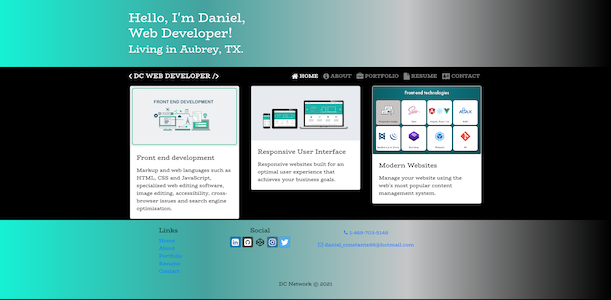
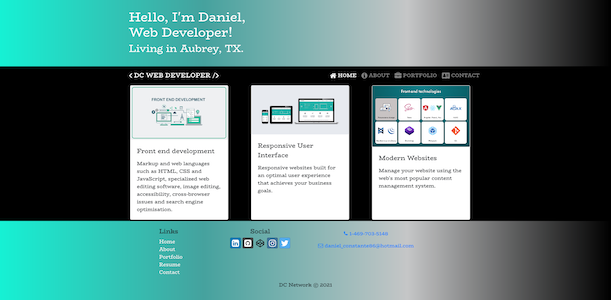
css details

diff --git a/src/components/FooterComponent.js b/src/components/FooterComponent.js
@@ -25,13 +25,13 @@ function Footer(props) {
                         <a className="btn btn-social-icon btn-twitter" href="http://twitter.com/"><i className="fa fa-twitter" /></a>{' '}
                         
                     </div>
-                    <div className="col-sm-4 text-center">
-                        <a role="button" className="btn btn-link" href="tel:+14697035148"><i className="fa fa-phone" /> 1-469-703-5148</a><br />
-                        <a role="button" className="btn btn-link" href="mailto:daniel_constante86@hotmail.com"><i className="fa fa-envelope-o" /> daniel_constante86@hotmail.com </a>
+                    <div  className="col-sm-4 text-center">
+                        <a id="footer" role="button" className="btn btn-link" href="tel:+14697035148"><i className="fa fa-phone" /> 1-469-703-5148</a><br />
+                        <a id="footer" role="button" className="btn btn-link" href="mailto:daniel_constante86@hotmail.com"><i className="fa fa-envelope-o" /> daniel_constante86@hotmail.com </a>
                     </div>
                 </div>
             </div>
-            <div  className="text-center">
+            <div id="footer" className="text-center">
             <p>DC Network © 2021</p>
             </div>
         </footer>

diff --git a/public/index.html b/public/index.html
@@ -2,7 +2,7 @@
 <html lang="en">
   <head>
     <meta charset="utf-8" />
-    <link rel="icon" href="%PUBLIC_URL%/favicon.ico" />
+    <link rel="icon" href="%PUBLIC_URL%/logo.jpg" />
     <meta name="viewport" content="width=device-width, initial-scale=1" />
     <meta name="theme-color" content="#000000" />
     <meta
@@ -24,7 +24,7 @@
       work correctly both with client-side routing and a non-root public URL.
       Learn how to configure a non-root public URL by running `npm run build`.
     -->
-    <title>React App</title>
+    <title>Daniel Constante Portfolio</title>
   </head>
   <body>
     <noscript>You need to enable JavaScript to run this app.</noscript>

diff --git a/src/components/HomeComponent.js b/src/components/HomeComponent.js
@@ -8,8 +8,8 @@ import { Card, CardImg, CardText, CardBody, CardTitle } from 'reactstrap';
 
 function RenderCard({ item }) {
     return (
-        <Card>
-            <CardImg src={item.image} alt={item.name} />
+        <Card style={{width:"90%", height:"100%"}}>
+            <CardImg style={{width:"100%", height:"40%"}} src={item.image} alt={item.name} />
             <CardBody>
                 <CardTitle>{item.name}</CardTitle>
                 <CardText>{item.description}</CardText>

diff --git a/src/components/ContactComponent.js b/src/components/ContactComponent.js
@@ -47,7 +47,7 @@ class Contact extends Component {
                             <BreadcrumbItem><Link className="link" to="/home">Home</Link></BreadcrumbItem>
                             <BreadcrumbItem active>Contact Us</BreadcrumbItem>
                         </Breadcrumb>
-                        <h2>Contact Us</h2>
+                        <h2>Contact</h2>
                         <hr />
                     </div>
                 </div>

diff --git a/src/components/DirectoryComponent.js b/src/components/DirectoryComponent.js
@@ -4,7 +4,7 @@ import { Link } from 'react-router-dom';
 
 function RenderDirectoryItem({ campsite }) {
     return (
-        <Card>
+        <Card style={{width:"100%", height:"100%"}}>
             <Link to={`/directory/${campsite.id}`}>
                 <CardImg width="100%" src={campsite.image} alt={campsite.name} />
                 <CardImgOverlay>

diff --git a/src/App.css b/src/App.css
@@ -28,6 +28,7 @@ h2 {
 }
 
 .site-footer {
+  color: white;
   background-image: linear-gradient(to right, #16F1D4, #45A29E, #C5C6C7, black);
   padding: 20px 0;   
 }
@@ -141,5 +142,13 @@ a {
 }
 
 a:hover, #email:hover {
+  color: #16F1D4;
+}
+
+#footer {
+  color: white;
+}
+
+#footer:hover{
   color: #16F1D4;
 }
